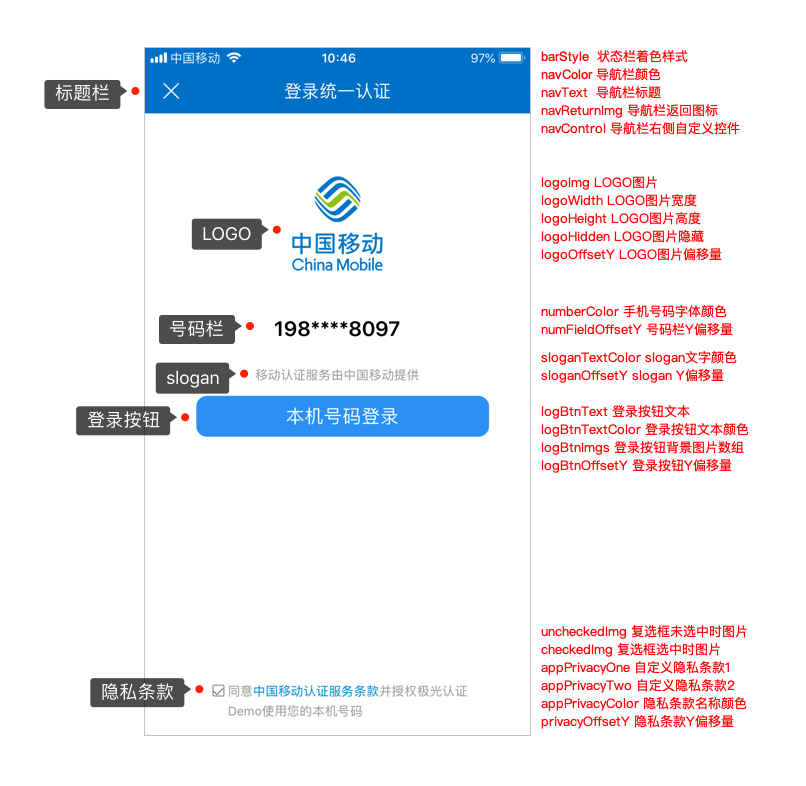
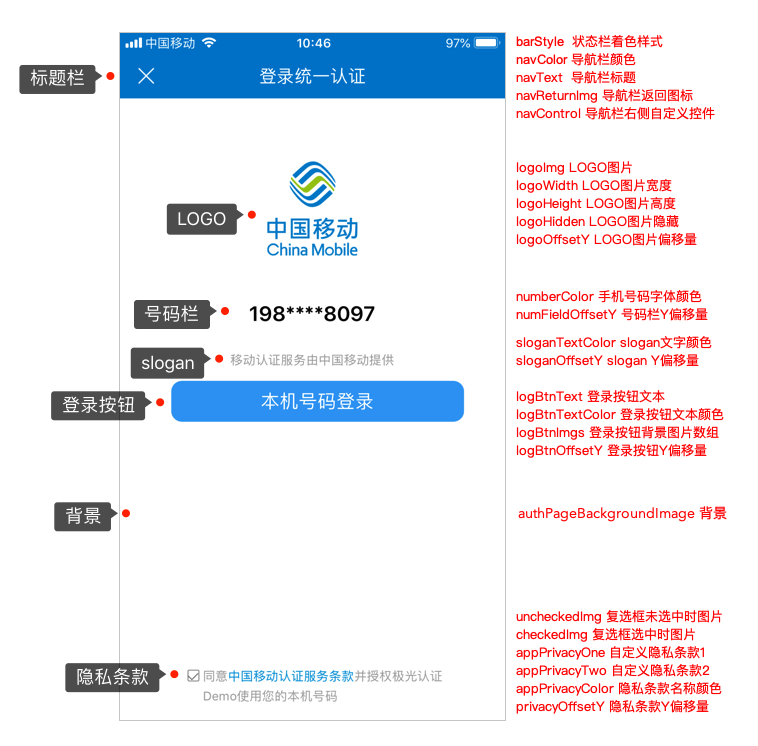
JVerification Android SDK v2.1.1 and iOS SDK v2.1.3 updated.

diff --git a/zh/jverification/client/android_guide.md b/zh/jverification/client/android_guide.md
@@ -58,7 +58,7 @@
 	
 ***说明 1***：使用android studio的开发者，如果使用jniLibs文件夹导入so文件，则仅需将所有cpu类型的文件夹拷进去；如果将so文件添加在module的libs文件夹下，注意在module的gradle配置中添加一下配置：
 
-
+~~~
         android {
             ......
             sourceSets {
@@ -70,7 +70,32 @@
             }
             ......
         }
+~~~
 
+***说明 2***：如果你的应用所选的targetSdkVersion >=28，设备在Android P 上是默认限制使用http请求的，开发者需要做如下配置：
+
++ 在res文件夹下创建一个xml文件夹，然后创建一个network_security_config.xml文件，文件内容如下：
+
+~~~
+        <?xml version="1.0" encoding="utf-8"?>
+        <network-security-config>
+            <base-config cleartextTrafficPermitted="true">
+                <trust-anchors>
+                    <certificates src="system" />
+                </trust-anchors>
+            </base-config>
+        </network-security-config>
+~~~
+
++ 在AndroidManifest.xml文件下的application标签增加以下属性：
+
+~~~
+    <application
+        ...
+        android:networkSecurityConfig="@xml/network_security_config"
+        ...
+        />
+~~~
 
 ###配置 AndroidManifest
 
@@ -110,6 +135,7 @@
         android:name="Your Application Name">
 
         <!-- since 2.0.0 optional 可选项，使用一键登录功能必须添加  -->
+        <!-- since 2.1.1 optional 可选项，通过screenOrientation设置授权页面横竖屏展示  -->
         <activity
             android:name="com.cmic.sso.sdk.activity.OAuthActivity"
             android:configChanges="orientation|keyboardHidden|screenSize"
@@ -117,6 +143,7 @@
             android:launchMode="singleTop">
         </activity>
         <!-- since 2.0.0 optional 可选项，使用一键登录功能必须添加  -->
+        <!-- since 2.1.1 optional 可选项，通过screenOrientation设置授权页面横竖屏展示  -->
         <activity
             android:name="com.cmic.sso.sdk.activity.LoginAuthActivity"
             android:theme="@android:style/Theme.Holo.NoActionBar"
@@ -125,6 +152,7 @@
             android:launchMode="singleTop">
         </activity>
         <!-- since 2.0.0 optional 可选项，使用一键登录功能必须添加  -->
+        <!-- since 2.1.1 optional 可选项，通过screenOrientation设置授权页面横竖屏展示  -->
         <activity android:name="cn.jiguang.verifysdk.CtLoginActivity"
             android:configChanges="orientation|keyboardHidden|screenSize"
             android:theme="@android:style/Theme.Holo.NoActionBar"

diff --git a/zh/jverification/updates.md b/zh/jverification/updates.md
@@ -1,4 +1,75 @@
 #最近更新
+
+##JVerification iOS SDK v2.1.3
+
+**更新时间**
+
+* 2019-04-26
+
+**Change Log**
+
+* 升级中国移动SDK
+* 新增授权页面支持横屏模式
+* 新增授权页面支持自定义背景
+* 修改授权页面隐私条款文案
+
+**升级建议**
+
+* 建议升级
+
+**升级指南**
+
++ 首先解压您获取到的zip压缩包
+
++ 更新库文件
+    + 打开libs文件夹
+    + 替换项目中原有的极光SDK文件
+        + account_login_sdk_noui_core.framework
+        + account_verify_sdk_core.framework
+        + EAccountApiSDK.framework
+        + jcore-ios-x.x.x.a
+        + jverification-ios-2.1.3.a
+        + TYRZSDK.framework
+    + 项目targets->build phases->link binary with libraries
+        + 增加libc++.1.tbd
+    + 在极光演示demo中，找到JVerificationResource.bundle，将这个bundle文件加到您的项目中 
+
+
+##JVerification Android SDK v2.1.1
+
+**更新时间**
+
+* 2019-04-26
+
+**Change Log**
+
+* 升级中国移动SDK
+* 新增授权页面支持横屏模式
+* 新增授权页面支持自定义背景
+* 修改授权页面隐私条款文案
+* 修复已知问题
+
+**升级建议**
+
+* 建议升级
+
+**升级指南**
+
++ 首先解压您获取到的zip压缩包
+
++ 更新库文件
+    + 打开libs文件夹
+    + 用jverification-android-v2.1.1.jar 替换项目中原有的极光认证sdk的jar文件
+    + 用jcore-android-v1.x.x.jar 替换项目中原有的极光jcore的jar文件
+    + 用对应CPU文件夹下的 libjcore1xy.so文件，替换项目中原有的极光so文件
+    + 用对应CPU文件夹下的 libCtaApiLib.so文件，添加到项目中
+
++ 更新AndroidManifest.xml
+    + 压缩包根目录下有示例 AndroidManifest 文件，请对照示例更新和JVerification相关的组件属性，permission 等配置，并在中文提示的位置替换你的包名和 appKey
+
++ 拷贝SDK所必须的资源文件
+    + 压缩包根目录下有res文件夹，将该文件夹下的所有文件复制到项目res下面对应的文件夹中
+
 ##JVerification iOS SDK v2.1.1
 
 **更新时间**

diff --git a/zh/jverification/client/android_api.md b/zh/jverification/client/android_api.md
@@ -183,6 +183,7 @@
 
 ~~~
     JVerifyUIConfig uiConfig = new JVerifyUIConfig.Builder()
+                    .setAuthBGImgPath("main_bg")   
                     .setNavColor(0xff0086d0)
                     .setNavText("登录")
                     .setNavTextColor(0xffffffff)
@@ -262,6 +263,15 @@
 
 
 ##JVerifyUIConfig配置元素说明
+
++ 授权页背景
+    + 开始支持的版本：2.1.1
+    + 说明：
+        + 图片会默认拉伸铺满整个屏幕，建议使用 .9.png 格式的图片来解决不同尺寸屏幕的适配问题 
+
+|方法|参数类型|说明|
+|:-----:|:----:|:----:|
+|setAuthBGImgPath|String|设置背景图片|
 
 + 授权页导航栏
         

diff --git a/zh/jverification/client/ios_api.md b/zh/jverification/client/ios_api.md
@@ -264,6 +264,7 @@
 
 |参数名称|参数类型|参数说明|
 |:-----:|:----:|:-----:|
+|authPageBackgroundImage|UIImage|授权页面背景图片|
 |navColor|UIColor|导航栏颜色|
 |barStyle|UIBarStyle|状态栏着色样式|
 |navText|NSAttributedString|导航栏标题|
